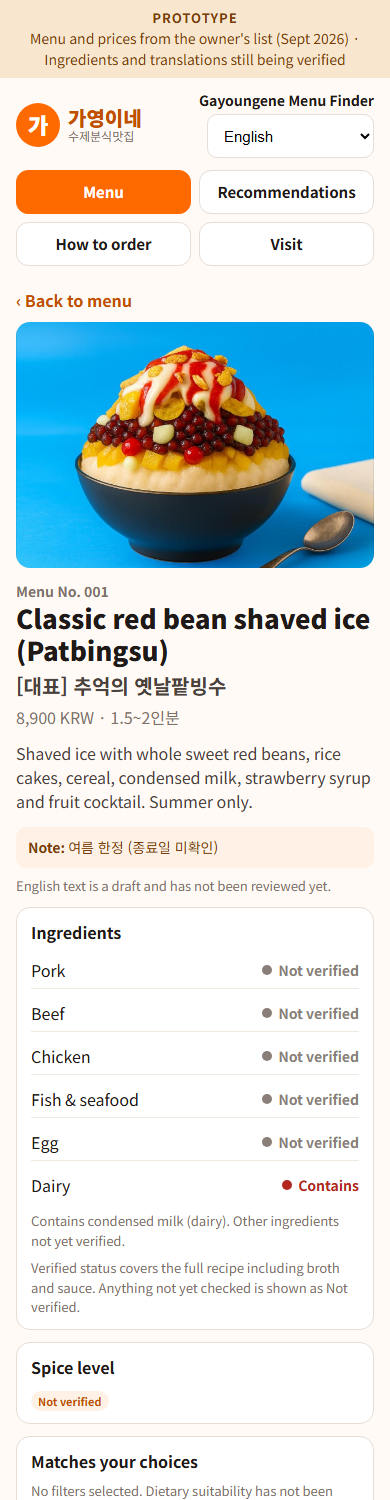
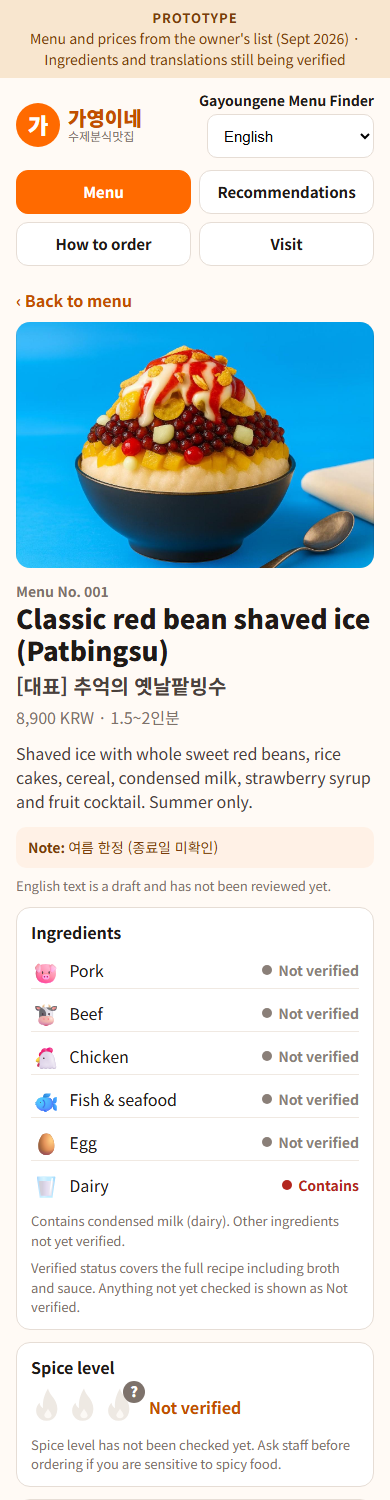
맵기를 불꽃 3칸 눈금으로, 재료를 🐷🐮🐔🐟🥚🥛 아이콘으로 표시 (가영이네)
카드·상세·필터 버튼·맵기 선택칸에 적용. 미확인 맵기는 회색 불꽃 + ?.
카드에 '포함' 확인된 재료 아이콘 줄 추가. 스크린샷 갱신

Changed region(s): [[0.0615, 0.92, 0.8923, 1.0], [0.0615, 0.644, 0.4, 0.7973]]

diff --git a/02_실전캠프_Day2_실습제출/4조_박가영_가영이네/v1/프로젝트/js/app.js b/02_실전캠프_Day2_실습제출/4조_박가영_가영이네/v1/프로젝트/js/app.js
@@ -32,6 +32,23 @@ function recReason(rec) {
 function spiceLabel(level) {
   return t(`spiceLabel.${level === null || level === undefined ? "null" : level}`);
 }
+// 맵기 눈금: 불꽃 3칸. level 0~3 = 켜진 불꽃 수, null = 회색 3개 + ?
+const FLAME = `<svg viewBox="0 0 24 28" aria-hidden="true"><path class="f-out" d="M12 1c1 4 4 6 5.5 9.5C19 14 19 17 17.5 20A7.5 7.5 0 0 1 4.5 20C3 17 3.5 13.5 6 11c.3 2 1.3 3.2 2.5 3.8C8 10 9.5 5 12 1z"/><path class="f-in" d="M12 15c.8 2 2.6 3 2.6 5.4A2.9 2.9 0 0 1 9.4 20.4C9.4 18 11 17.5 12 15z"/></svg>`;
+function spiceMeterHTML(level, size) {
+  const unknown = level === null || level === undefined;
+  const flames = [1, 2, 3].map((i) => `<span class="flame ${!unknown && i <= level ? "on" : ""} ${unknown ? "unk" : ""}">${FLAME}</span>`).join("");
+  return `<span class="spice-meter ${size}" role="img" aria-label="${spiceLabel(level)}">${flames}${unknown ? `<span class="flame-q">?</span>` : ""}</span>`;
+}
+// 재료 아이콘 (이모지). 필터 버튼·카드·상세에서 같이 쓴다.
+const ING_ICON = { pork: "🐷", beef: "🐮", chicken: "🐔", seafood: "🐟", egg: "🥚", dairy: "🥛" };
+const SPICE_OPT_ICON = { any: "", 0: "❄ ", 1: "🔥 ", 2: "🔥🔥 ", 3: "🔥🔥🔥 " };
+function ingIcon(key) { return `<span class="ing-icon" aria-hidden="true">${ING_ICON[key] ?? ""}</span>`; }
+// 카드용: 포함(contains) 확인된 재료 아이콘만 나열
+function containsIconsHTML(menu) {
+  const keys = DATA.ingredientKeys.filter((k) => menu.ingredients?.[k] === "contains");
+  if (!keys.length) return "";
+  return `<div class="contains-row" aria-label="${t("card.contains")}"><span class="contains-label">${t("card.contains")}</span>${keys.map((k) => `<span class="ing-chip" title="${t(`ingredient.${k}`)}">${ING_ICON[k]}</span>`).join("")}</div>`;
+}
 function categoryLabel(id) {
   return t(`foodType.${id}`);
 }
@@ -112,7 +129,9 @@ function cardHTML(menu, extra = "") {
         <span class="num">${menu.sample ? t("card.sample") + " · " : ""}${esc(menu.menuNumber)}</span>
         <span class="name">${esc(menuName(menu))}</span>
         <span class="name-ko" lang="ko">${esc(menu.nameKo)}</span>
-        <div class="badges"><span class="badge ${spiceUnknown && ingUnknown ? "check" : "spice"}">${spiceUnknown && ingUnknown ? t("card.detailsUnverified") : spiceLabel(menu.spiceLevel)}</span>${sold}${check}</div>
+        <div class="spice-row">${spiceMeterHTML(menu.spiceLevel, "sm")}<span class="spice-text">${spiceLabel(menu.spiceLevel)}</span></div>
+        ${containsIconsHTML(menu)}
+        <div class="badges">${sold}${check}${spiceUnknown && ingUnknown ? `<span class="badge check">${t("card.needsCheck")}</span>` : ""}</div>
         <span class="meta">${menu.priceKrw === null ? t("card.pricePending") : `${menu.priceKrw.toLocaleString()} KRW`}</span>
         ${extra}
       </div>
@@ -135,9 +154,9 @@ function renderHome() {
   const f = state.filters;
   const chips = DATA.ingredientKeys.map((k) => {
     const on = f.avoid.includes(k);
-    return `<button type="button" class="chip" role="checkbox" aria-checked="${on}" data-avoid="${k}"><span class="mark" aria-hidden="true">${on ? "✓" : "+"}</span>${t(`ingredient.${k}`)}</button>`;
+    return `<button type="button" class="chip" role="checkbox" aria-checked="${on}" data-avoid="${k}"><span class="mark" aria-hidden="true">${on ? "✓" : "+"}</span>${ingIcon(k)}${t(`ingredient.${k}`)}</button>`;
   }).join("");
-  const spiceOpts = ["any", 0, 1, 2, 3].map((v) => `<option value="${v}" ${String(f.maxSpice ?? "any") === String(v) ? "selected" : ""}>${t(`spice.${v}`)}</option>`).join("");
+  const spiceOpts = ["any", 0, 1, 2, 3].map((v) => `<option value="${v}" ${String(f.maxSpice ?? "any") === String(v) ? "selected" : ""}>${SPICE_OPT_ICON[v]}${t(`spice.${v}`)}</option>`).join("");
   const types = [{ id: "all" }, ...DATA.categories].map((c) => `<button type="button" class="chip" role="radio" aria-checked="${f.foodType === c.id}" data-type="${c.id}">${categoryLabel(c.id)}</button>`).join("");
 
   main.innerHTML = `
@@ -195,11 +214,11 @@ function renderDetail(id) {
   }
   const ing = DATA.ingredientKeys.map((k) => {
     const s = menu.ingredients?.[k] ?? "unknown";
-    return `<li><span>${t(`ingredient.${k}`)}</span><span class="status ${s}">${t(`detail.status.${s}`)}</span></li>`;
+    return `<li><span class="ing-name">${ingIcon(k)}${t(`ingredient.${k}`)}</span><span class="status ${s}">${t(`detail.status.${s}`)}</span></li>`;
   }).join("");
   const reasons = Filter.matchedReasons(menu, state.filters);
   const matched = Filter.hasAnyFilter(state.filters)
-    ? (reasons.length ? `<ul class="matched">${reasons.map((r) => `<li>${r.type === "avoid" ? `${t("detail.status.absent_verified")}: ${t(`ingredient.${r.key}`)}` : r.type === "spice" ? spiceLabel(r.level) : categoryLabel(r.id)}</li>`).join("")}</ul>` : "")
+    ? (reasons.length ? `<ul class="matched">${reasons.map((r) => `<li>${r.type === "avoid" ? `${ING_ICON[r.key]} ${t("detail.status.absent_verified")}: ${t(`ingredient.${r.key}`)}` : r.type === "spice" ? spiceLabel(r.level) : categoryLabel(r.id)}</li>`).join("")}</ul>` : "")
     : `<p class="small">${t("detail.noFilters")}</p>`;
   const sold = menu.availability === "sold_out" ? `<span class="badge sold">${t("card.soldOut")}</span>` : "";
 
@@ -218,7 +237,7 @@ function renderDetail(id) {
     <section class="panel"><h2>${t("detail.ingredients")}</h2><ul class="ing-list">${ing}</ul>
       ${menuField(menu, "ingredientNote") ? `<p class="small">${esc(menuField(menu, "ingredientNote"))}</p>` : ""}
       <p class="small">${t("detail.statusNote")}</p></section>
-    <section class="panel"><h2>${t("detail.spice")}</h2><span class="badge spice">${spiceLabel(menu.spiceLevel)}</span></section>
+    <section class="panel"><h2>${t("detail.spice")}</h2><div class="spice-row lg">${spiceMeterHTML(menu.spiceLevel, "lg")}<span class="spice-text lg">${spiceLabel(menu.spiceLevel)}</span></div>${menu.spiceLevel === null ? `<p class="small">${t("detail.spiceUnknownNote")}</p>` : ""}</section>
     <section class="panel"><h2>${t("detail.matched")}</h2>${matched}</section>
     <p class="notice warn">${t("allergy.note")} ${t("allergy.notVegan")}</p>
     <a class="btn" href="#/find/${esc(menu.menuNumber)}">${t("detail.findInStore")}</a>

diff --git a/02_실전캠프_Day2_실습제출/4조_박가영_가영이네/v1/프로젝트/css/style.css b/02_실전캠프_Day2_실습제출/4조_박가영_가영이네/v1/프로젝트/css/style.css
@@ -221,3 +221,36 @@ h2 { font-size: 18px; margin: 0 0 8px; }
 .photo.has-img img { position: absolute; inset: 0; width: 100%; height: 100%; object-fit: cover; display: block; }
 .photo.has-img .photo-fallback { display: none; }
 .photo.large.has-img { border-radius: var(--radius); overflow: hidden; }
+
+/* ── spice flame meter ── */
+.spice-row { display: flex; align-items: center; gap: 8px; margin-top: 6px; }
+.spice-row.lg { gap: 12px; margin-top: 2px; }
+.spice-meter { display: inline-flex; align-items: center; gap: 2px; position: relative; }
+.spice-meter .flame { width: 20px; height: 24px; display: inline-block; }
+.spice-meter.lg .flame { width: 34px; height: 40px; }
+.spice-meter .flame svg { width: 100%; height: 100%; display: block; }
+.flame .f-out { fill: #e8e0d8; }
+.flame .f-in { fill: #fbf7f2; }
+.flame.on .f-out { fill: url(#flame-grad, #ff6a00); fill: #ff6a00; }
+.flame.on .f-in { fill: #ffd166; }
+.flame.on:nth-child(2) .f-out { fill: #ff4d1f; }
+.flame.on:nth-child(3) .f-out { fill: #e8231a; }
+.flame.on { filter: drop-shadow(0 1px 1px rgba(232, 35, 26, .25)); animation: flicker 1.6s ease-in-out infinite; transform-origin: 50% 90%; }
+.flame.on:nth-child(2) { animation-delay: .25s; }
+.flame.on:nth-child(3) { animation-delay: .5s; }
+.flame.unk { opacity: .7; }
+.flame-q { position: absolute; right: -6px; top: -4px; background: var(--muted); color: #fff; font-size: 11px; font-weight: 900; width: 16px; height: 16px; border-radius: 50%; display: grid; place-items: center; }
+.spice-meter.lg .flame-q { width: 22px; height: 22px; font-size: 14px; right: -8px; top: -6px; }
+.spice-text { font-size: 12px; font-weight: 700; color: var(--orange-dark); }
+.spice-text.lg { font-size: 16px; }
+@keyframes flicker { 0%, 100% { transform: scale(1) rotate(0); } 50% { transform: scale(1.06) rotate(-2deg); } }
+@media (prefers-reduced-motion: reduce) { .flame.on { animation: none; } }
+
+/* ── ingredient icons ── */
+.ing-icon { font-size: 18px; line-height: 1; margin-right: 4px; }
+.chip .ing-icon { margin-right: 2px; }
+.ing-name { display: inline-flex; align-items: center; gap: 2px; }
+.ing-list .ing-icon { font-size: 22px; margin-right: 6px; }
+.contains-row { display: flex; align-items: center; gap: 4px; margin-top: 4px; flex-wrap: wrap; }
+.contains-label { font-size: 11px; color: var(--muted); font-weight: 700; margin-right: 2px; }
+.ing-chip { font-size: 16px; line-height: 1; background: #fff3ea; border: 1px solid #f5d5c0; border-radius: 999px; padding: 3px 5px; }

diff --git a/02_실전캠프_Day2_실습제출/4조_박가영_가영이네/v1/프로젝트/content/ui-text.js b/02_실전캠프_Day2_실습제출/4조_박가영_가영이네/v1/프로젝트/content/ui-text.js
@@ -75,6 +75,8 @@ window.GAYOUNGENE_DATA["ui"] =
       "card.soldOut": "Sold out",
       "card.needsCheck": "Some ingredients not verified",
       "card.detailsUnverified": "Spice & ingredients not verified",
+      "detail.spiceUnknownNote": "Spice level has not been checked yet. Ask staff before ordering if you are sensitive to spicy food.",
+      "card.contains": "Contains",
       "detail.back": "Back to menu",
       "detail.ingredients": "Ingredients",
       "detail.status.contains": "Contains",

diff --git a/02_실전캠프_Day2_실습제출/4조_박가영_가영이네/v1/프로젝트/프롬프트기록.md b/02_실전캠프_Day2_실습제출/4조_박가영_가영이네/v1/프로젝트/프롬프트기록.md
@@ -21,3 +21,9 @@
 
 - "content/menus.js에 실제 메뉴 20개를 채워 줘. 내가 주는 표대로. 재료는 확인 안 된 건 unknown으로"
 - "store.js에 주소·영업시간·주문 순서를 넣고 confirmed를 true로"
+
+## 4. 실제 데이터·아이콘 (9/17 오후)
+
+- "해당 시트에 입력된 값들을 사이트에 필요한 정보값에 입력해서 사이트 개발을 진행해줘" + 구글 드라이브 사진 폴더 링크 → AI가 드라이브 연결로 시트를 읽어 메뉴 33개·사진 18장을 `content/`에 반영. 사진 폴더는 "링크가 있는 모든 사용자"로 바꿔 줘야 받을 수 있었음
+- "매운맛 정도의 표기는 시각적으로 더 눈에 띄게 귀여운 불 아이콘 이미지로 단계적으로" → 불꽃 3칸 눈금(SVG), 미확인은 회색 + ?
+- "돼지고기, 소고기, 닭, 생선, 계란, 우유 등도 귀여운 아이콘을 함께" → 🐷🐮🐔🐟🥚🥛 이모지를 필터 버튼·카드(포함 재료)·상세 목록에
